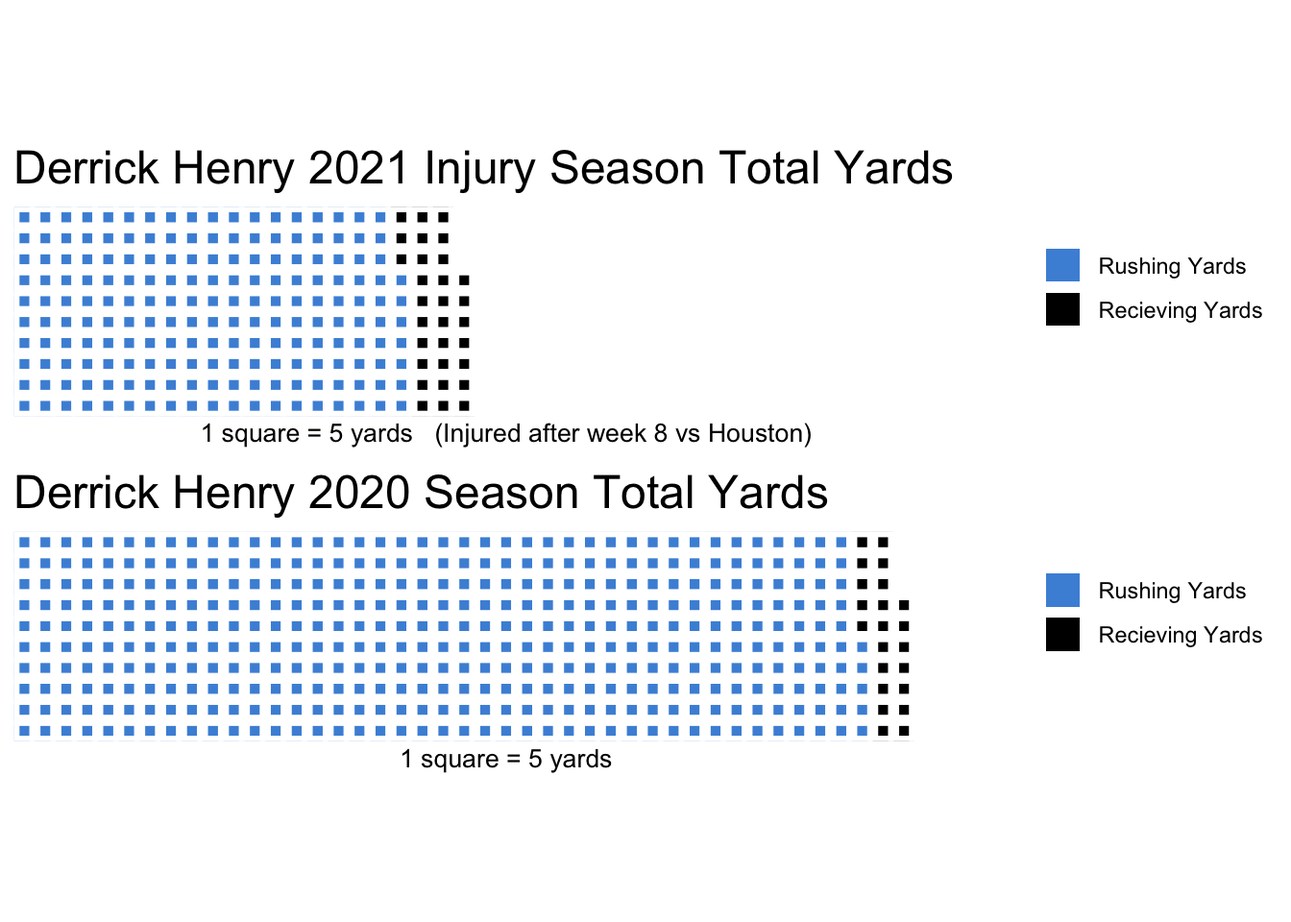
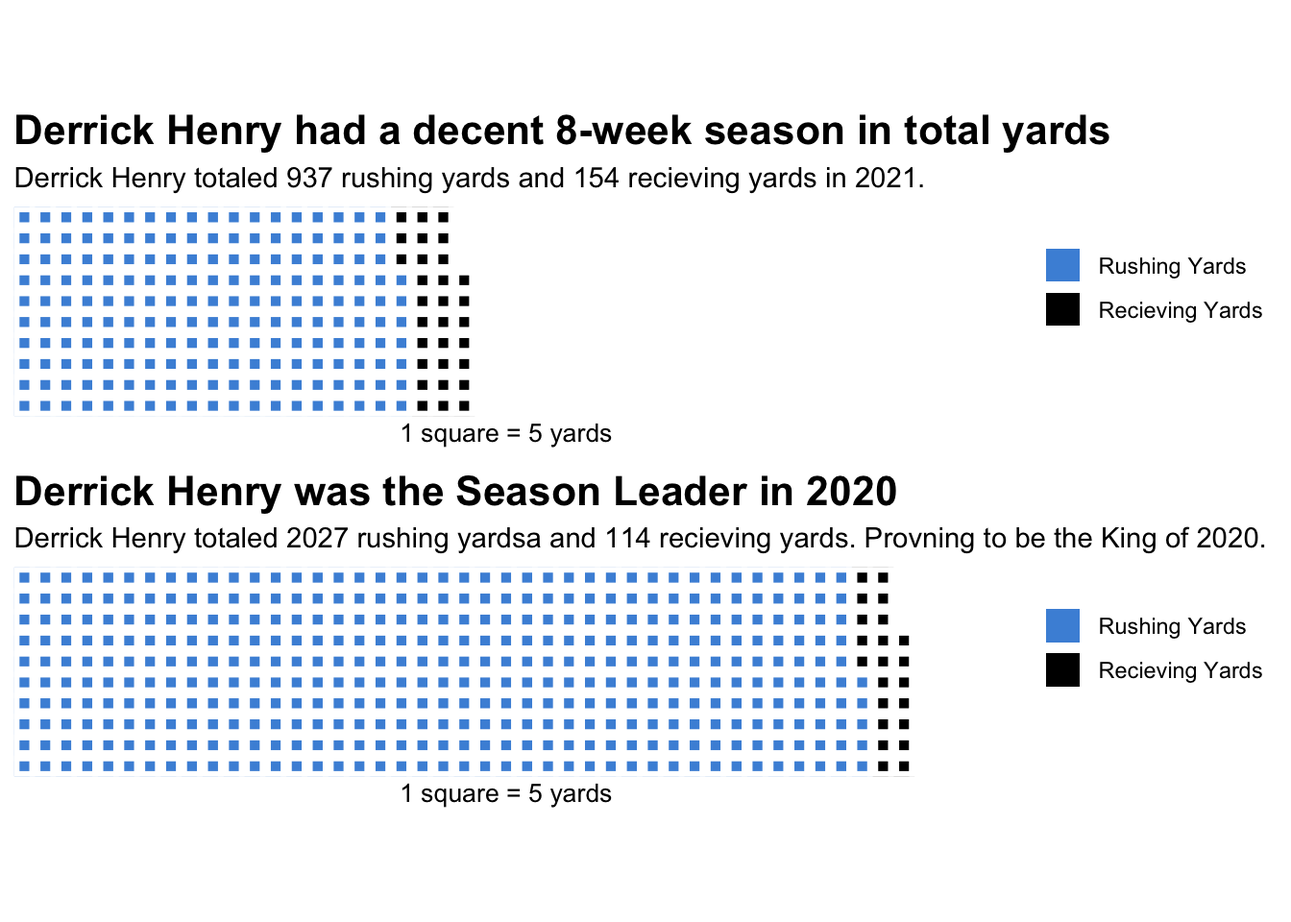
Fixes

Changed region(s): [[0.0, 0.4375, 0.9688, 0.875], [0.0, 0.125, 0.875, 0.2188], [0.8125, 0.625, 0.9688, 0.75]]

diff --git a/posts/Derrick-Henry-the-never-to-be-2021-MVP/index.html b/posts/Derrick-Henry-the-never-to-be-2021-MVP/index.html
@@ -436,7 +436,7 @@ code span.wa { color: #60a0b0; font-weight: bold; font-style: italic; } /* Warni
 </div>
 </div>
 <p>Looking at the other running backs in the NFL and the incredible season Johnathon Taylor had, Derrick Henry was in a really good group of athletes to compete against. And in the NFL anything can happen, as seen with Henry’s unfortunate injury in week 8 versus Houston. Henry could have gained more than expected, he could have gained less. We just will never know what could have been.</p>
-<p>A common thing to help compare potential MVP material is to look to the past. Most MVPs are typically, especially in recent years, Quarterbacks. There hasn’t been a non-quarterback MVP since 2009 when Adrian Peterson had a breakout season as the Minnesota Vikings star running back. There have only been FOUR running back MVPS since 2000, so let’s look at how Derrick Henry compares in yards gained versus the former MVP running backs of the 21st century including his 2020 season.</p>
+<p>A common thing to help compare potential MVP material is to look to the past. Most MVPs are typically, especially in recent years, Quarterbacks. There hasn’t been a non-quarterback MVP since 2009 when Adrian Peterson had a breakout season as the Minnesota Vikings star running back. There have only been FOUR running back MVPS since 2000, so let’s look at how Derrick Henry matched up in is 2020 NFL lead rusher season and his unfortunate shortend 2021 season..</p>
 <div class="cell">
 <details>
 <summary>Code</summary>
@@ -511,52 +511,105 @@ code span.wa { color: #60a0b0; font-weight: bold; font-style: italic; } /* Warni
 <span id="cb2-69"><a href="#cb2-69" aria-hidden="true" tabindex="-1"></a><span class="fu">iron</span>(</span>
 <span id="cb2-70"><a href="#cb2-70" aria-hidden="true" tabindex="-1"></a>   <span class="fu">waffle</span>(DH21<span class="sc">/</span><span class="dv">5</span>,</span>
 <span id="cb2-71"><a href="#cb2-71" aria-hidden="true" tabindex="-1"></a>    <span class="at">rows=</span> <span class="dv">10</span>,</span>
-<span id="cb2-72"><a href="#cb2-72" aria-hidden="true" tabindex="-1"></a>    <span class="at">title=</span> <span class="st">"Derrick Henry 2021 Injury Season Total Yards"</span>,</span>
-<span id="cb2-73"><a href="#cb2-73" aria-hidden="true" tabindex="-1"></a>    <span class="at">xlab=</span><span class="st">"1 square = 5 yards   (Injured after week 8 vs Houston)"</span>,</span>
-<span id="cb2-74"><a href="#cb2-74" aria-hidden="true" tabindex="-1"></a>    <span class="at">colors =</span> <span class="fu">c</span>(<span class="st">"#4B92DB"</span>,<span class="st">"Black"</span>,<span class="st">"white"</span>)),</span>
-<span id="cb2-75"><a href="#cb2-75" aria-hidden="true" tabindex="-1"></a>  <span class="fu">waffle</span>(DH20<span class="sc">/</span><span class="dv">5</span>,</span>
-<span id="cb2-76"><a href="#cb2-76" aria-hidden="true" tabindex="-1"></a>    <span class="at">rows=</span> <span class="dv">10</span>,</span>
-<span id="cb2-77"><a href="#cb2-77" aria-hidden="true" tabindex="-1"></a>    <span class="at">title=</span> <span class="st">"Derrick Henry 2020 Season Total Yards"</span>,</span>
-<span id="cb2-78"><a href="#cb2-78" aria-hidden="true" tabindex="-1"></a>    <span class="at">xlab=</span><span class="st">"1 square = 5 yards"</span>,</span>
-<span id="cb2-79"><a href="#cb2-79" aria-hidden="true" tabindex="-1"></a>   <span class="at">colors =</span> <span class="fu">c</span>(<span class="st">"#4B92DB"</span>,<span class="st">"Black"</span>,<span class="st">"white"</span>)))</span></code><button title="Copy to Clipboard" class="code-copy-button"><i class="bi"></i></button></pre></div>
+<span id="cb2-72"><a href="#cb2-72" aria-hidden="true" tabindex="-1"></a>    <span class="at">colors =</span> <span class="fu">c</span>(<span class="st">"#4B92DB"</span>,<span class="st">"Black"</span>,<span class="st">"white"</span>))<span class="sc">+</span></span>
+<span id="cb2-73"><a href="#cb2-73" aria-hidden="true" tabindex="-1"></a>    <span class="fu">labs</span>(</span>
+<span id="cb2-74"><a href="#cb2-74" aria-hidden="true" tabindex="-1"></a>    <span class="at">x=</span> <span class="st">"1 square = 5 yards"</span>,</span>
+<span id="cb2-75"><a href="#cb2-75" aria-hidden="true" tabindex="-1"></a>    <span class="at">title =</span> <span class="st">"Derrick Henry had a decent 8-week season in total yards"</span>,</span>
+<span id="cb2-76"><a href="#cb2-76" aria-hidden="true" tabindex="-1"></a>    <span class="at">subtitle =</span> <span class="st">"Derrick Henry totaled 937 rushing yards and 154 recieving yards in 2021."</span>) <span class="sc">+</span></span>
+<span id="cb2-77"><a href="#cb2-77" aria-hidden="true" tabindex="-1"></a>  <span class="fu">theme</span>(</span>
+<span id="cb2-78"><a href="#cb2-78" aria-hidden="true" tabindex="-1"></a>    <span class="at">plot.title =</span> <span class="fu">element_text</span>(<span class="at">size =</span> <span class="dv">16</span>, <span class="at">face =</span> <span class="st">"bold"</span>),</span>
+<span id="cb2-79"><a href="#cb2-79" aria-hidden="true" tabindex="-1"></a>    <span class="at">axis.title =</span> <span class="fu">element_text</span>(<span class="at">size =</span> <span class="dv">10</span>),</span>
+<span id="cb2-80"><a href="#cb2-80" aria-hidden="true" tabindex="-1"></a>    <span class="at">axis.title.y =</span> <span class="fu">element_blank</span>()</span>
+<span id="cb2-81"><a href="#cb2-81" aria-hidden="true" tabindex="-1"></a>  ),</span>
+<span id="cb2-82"><a href="#cb2-82" aria-hidden="true" tabindex="-1"></a>  <span class="fu">waffle</span>(DH20<span class="sc">/</span><span class="dv">5</span>,</span>
+<span id="cb2-83"><a href="#cb2-83" aria-hidden="true" tabindex="-1"></a>    <span class="at">rows=</span> <span class="dv">10</span>,</span>
+<span id="cb2-84"><a href="#cb2-84" aria-hidden="true" tabindex="-1"></a>   <span class="at">colors =</span> <span class="fu">c</span>(<span class="st">"#4B92DB"</span>,<span class="st">"Black"</span>,<span class="st">"white"</span>))<span class="sc">+</span></span>
+<span id="cb2-85"><a href="#cb2-85" aria-hidden="true" tabindex="-1"></a>    <span class="fu">labs</span>(</span>
+<span id="cb2-86"><a href="#cb2-86" aria-hidden="true" tabindex="-1"></a>    <span class="at">x=</span> <span class="st">"1 square = 5 yards"</span>,</span>
+<span id="cb2-87"><a href="#cb2-87" aria-hidden="true" tabindex="-1"></a>    <span class="at">title =</span> <span class="st">"Derrick Henry was the Season Leader in 2020"</span>,</span>
+<span id="cb2-88"><a href="#cb2-88" aria-hidden="true" tabindex="-1"></a>    <span class="at">subtitle =</span> <span class="st">"Derrick Henry totaled 2027 rushing yardsa and 114 recieving yards. Provning to be the King of 2020."</span>) <span class="sc">+</span></span>
+<span id="cb2-89"><a href="#cb2-89" aria-hidden="true" tabindex="-1"></a>  <span class="fu">theme</span>(</span>
+<span id="cb2-90"><a href="#cb2-90" aria-hidden="true" tabindex="-1"></a>    <span class="at">plot.title =</span> <span class="fu">element_text</span>(<span class="at">size =</span> <span class="dv">16</span>, <span class="at">face =</span> <span class="st">"bold"</span>),</span>
+<span id="cb2-91"><a href="#cb2-91" aria-hidden="true" tabindex="-1"></a>    <span class="at">axis.title =</span> <span class="fu">element_text</span>(<span class="at">size =</span> <span class="dv">10</span>),</span>
+<span id="cb2-92"><a href="#cb2-92" aria-hidden="true" tabindex="-1"></a>    <span class="at">axis.title.y =</span> <span class="fu">element_blank</span>()</span>
+<span id="cb2-93"><a href="#cb2-93" aria-hidden="true" tabindex="-1"></a>  ))</span></code><button title="Copy to Clipboard" class="code-copy-button"><i class="bi"></i></button></pre></div>
 </details>
 <div class="cell-output-display">
 <p><img src="index_files/figure-html/unnamed-chunk-2-1.png" class="img-fluid" width="672"></p>
 </div>
+</div>
+<p>But how does Henry compare to two of the best running backs in the 2000s and their total rushing yards? Well Adrian Peterson, the 2009 MVP, and LaDainian Tomlinson, the 2005 MVP have two of the highest total yards gained by running backs in the 2000s. They won the MVP for a reason and their yards gained show a big reason why.</p>
+<div class="cell">
 <details>
 <summary>Code</summary>
 <div class="sourceCode cell-code" id="cb3"><pre class="sourceCode r code-with-copy"><code class="sourceCode r"><span id="cb3-1"><a href="#cb3-1" aria-hidden="true" tabindex="-1"></a><span class="fu">iron</span>(</span>
 <span id="cb3-2"><a href="#cb3-2" aria-hidden="true" tabindex="-1"></a>  <span class="fu">waffle</span>(AP<span class="sc">/</span><span class="dv">5</span>,</span>
 <span id="cb3-3"><a href="#cb3-3" aria-hidden="true" tabindex="-1"></a>  <span class="at">rows=</span> <span class="dv">10</span>,</span>
-<span id="cb3-4"><a href="#cb3-4" aria-hidden="true" tabindex="-1"></a>  <span class="at">title=</span> <span class="st">"Adrian Peterson 2012 MVP Season Total Yards"</span>,</span>
-<span id="cb3-5"><a href="#cb3-5" aria-hidden="true" tabindex="-1"></a>  <span class="at">xlab=</span><span class="st">"1 square = 5 yards"</span>,</span>
-<span id="cb3-6"><a href="#cb3-6" aria-hidden="true" tabindex="-1"></a>  <span class="at">colors =</span> <span class="fu">c</span>(<span class="st">"#4F2683"</span>,<span class="st">"#FFC62F"</span>, <span class="st">"white"</span>)),</span>
-<span id="cb3-7"><a href="#cb3-7" aria-hidden="true" tabindex="-1"></a>  <span class="fu">waffle</span>(LT<span class="sc">/</span><span class="dv">5</span>,</span>
-<span id="cb3-8"><a href="#cb3-8" aria-hidden="true" tabindex="-1"></a>  <span class="at">rows=</span> <span class="dv">10</span>,</span>
-<span id="cb3-9"><a href="#cb3-9" aria-hidden="true" tabindex="-1"></a>  <span class="at">title=</span> <span class="st">"LaDainian Tomlinson 2006 MVP Season Total Yards"</span>,</span>
-<span id="cb3-10"><a href="#cb3-10" aria-hidden="true" tabindex="-1"></a>  <span class="at">xlab=</span><span class="st">"1 square = 5 yards"</span>,</span>
-<span id="cb3-11"><a href="#cb3-11" aria-hidden="true" tabindex="-1"></a>  <span class="at">colors =</span> <span class="fu">c</span>(<span class="st">"#0080C6"</span>,<span class="st">"#FFC20E"</span>)))</span></code><button title="Copy to Clipboard" class="code-copy-button"><i class="bi"></i></button></pre></div>
+<span id="cb3-4"><a href="#cb3-4" aria-hidden="true" tabindex="-1"></a>  <span class="at">colors =</span> <span class="fu">c</span>(<span class="st">"#4F2683"</span>,<span class="st">"#FFC62F"</span>, <span class="st">"white"</span>))<span class="sc">+</span></span>
+<span id="cb3-5"><a href="#cb3-5" aria-hidden="true" tabindex="-1"></a>    <span class="fu">labs</span>(</span>
+<span id="cb3-6"><a href="#cb3-6" aria-hidden="true" tabindex="-1"></a>    <span class="at">x=</span> <span class="st">"1 square = 5 yards"</span>,</span>
+<span id="cb3-7"><a href="#cb3-7" aria-hidden="true" tabindex="-1"></a>    <span class="at">title =</span> <span class="st">"The Vikings MVP racked up  major yards in the 2009 season"</span>,</span>
+<span id="cb3-8"><a href="#cb3-8" aria-hidden="true" tabindex="-1"></a>    <span class="at">subtitle =</span> <span class="st">"Adrian Peterson totaled 2097 rushing yards and 217 receiving yards in the last season a</span><span class="sc">\n</span><span class="st">running back won the NFL MVP."</span>) <span class="sc">+</span></span>
+<span id="cb3-9"><a href="#cb3-9" aria-hidden="true" tabindex="-1"></a>  <span class="fu">theme</span>(</span>
+<span id="cb3-10"><a href="#cb3-10" aria-hidden="true" tabindex="-1"></a>    <span class="at">plot.title =</span> <span class="fu">element_text</span>(<span class="at">size =</span> <span class="dv">16</span>, <span class="at">face =</span> <span class="st">"bold"</span>),</span>
+<span id="cb3-11"><a href="#cb3-11" aria-hidden="true" tabindex="-1"></a>    <span class="at">axis.title =</span> <span class="fu">element_text</span>(<span class="at">size =</span> <span class="dv">10</span>),</span>
+<span id="cb3-12"><a href="#cb3-12" aria-hidden="true" tabindex="-1"></a>    <span class="at">axis.title.y =</span> <span class="fu">element_blank</span>()</span>
+<span id="cb3-13"><a href="#cb3-13" aria-hidden="true" tabindex="-1"></a>  ),</span>
+<span id="cb3-14"><a href="#cb3-14" aria-hidden="true" tabindex="-1"></a>  <span class="fu">waffle</span>(LT<span class="sc">/</span><span class="dv">5</span>,</span>
+<span id="cb3-15"><a href="#cb3-15" aria-hidden="true" tabindex="-1"></a>  <span class="at">rows=</span> <span class="dv">10</span>,</span>
+<span id="cb3-16"><a href="#cb3-16" aria-hidden="true" tabindex="-1"></a>  <span class="at">title=</span> <span class="st">"LaDainian Tomlinson 2006 MVP Season Total Yards"</span>,</span>
+<span id="cb3-17"><a href="#cb3-17" aria-hidden="true" tabindex="-1"></a>  <span class="at">xlab=</span><span class="st">"1 square = 5 yards"</span>,</span>
+<span id="cb3-18"><a href="#cb3-18" aria-hidden="true" tabindex="-1"></a>  <span class="at">colors =</span> <span class="fu">c</span>(<span class="st">"#0080C6"</span>,<span class="st">"#FFC20E"</span>))<span class="sc">+</span></span>
+<span id="cb3-19"><a href="#cb3-19" aria-hidden="true" tabindex="-1"></a>    <span class="fu">labs</span>(</span>
+<span id="cb3-20"><a href="#cb3-20" aria-hidden="true" tabindex="-1"></a>    <span class="at">x=</span> <span class="st">"1 square = 5 yards"</span>,</span>
+<span id="cb3-21"><a href="#cb3-21" aria-hidden="true" tabindex="-1"></a>    <span class="at">title =</span> <span class="st">"Potentially the most dominate running back of the 2000s era,</span><span class="sc">\n</span><span class="st">lit upthe field in 2005"</span>,</span>
+<span id="cb3-22"><a href="#cb3-22" aria-hidden="true" tabindex="-1"></a>    <span class="at">subtitle =</span> <span class="st">"LaDainian Tomlinson ran 1815 yards on the ground and nrecieived 508 yards through the air</span><span class="sc">\n</span><span class="st">in the biggest reciving yards by any running back MVP in the 21st century ."</span>) <span class="sc">+</span></span>
+<span id="cb3-23"><a href="#cb3-23" aria-hidden="true" tabindex="-1"></a>  <span class="fu">theme</span>(</span>
+<span id="cb3-24"><a href="#cb3-24" aria-hidden="true" tabindex="-1"></a>    <span class="at">plot.title =</span> <span class="fu">element_text</span>(<span class="at">size =</span> <span class="dv">16</span>, <span class="at">face =</span> <span class="st">"bold"</span>),</span>
+<span id="cb3-25"><a href="#cb3-25" aria-hidden="true" tabindex="-1"></a>    <span class="at">axis.title =</span> <span class="fu">element_text</span>(<span class="at">size =</span> <span class="dv">10</span>),</span>
+<span id="cb3-26"><a href="#cb3-26" aria-hidden="true" tabindex="-1"></a>    <span class="at">axis.title.y =</span> <span class="fu">element_blank</span>()</span>
+<span id="cb3-27"><a href="#cb3-27" aria-hidden="true" tabindex="-1"></a>  ))</span></code><button title="Copy to Clipboard" class="code-copy-button"><i class="bi"></i></button></pre></div>
 </details>
 <div class="cell-output-display">
-<p><img src="index_files/figure-html/unnamed-chunk-2-2.png" class="img-fluid" width="672"></p>
+<p><img src="index_files/figure-html/unnamed-chunk-3-1.png" class="img-fluid" width="672"></p>
 </div>
+</div>
+<p>The other two running back MVPs that most casual NFL fans brush over is Seattle Seahawks running back Suan Alexander in 2005 and the Superbowl XXXIV Champions (Yes I still cry about this as a Titans fan) St.&nbsp;Louis Rams running back Marshall Faulk. What really surpises me is that Faulk had more total yards than any of the other MVPs and running backs on the list, including Eric Dickerson.</p>
+<div class="cell">
 <details>
 <summary>Code</summary>
 <div class="sourceCode cell-code" id="cb4"><pre class="sourceCode r code-with-copy"><code class="sourceCode r"><span id="cb4-1"><a href="#cb4-1" aria-hidden="true" tabindex="-1"></a><span class="fu">iron</span>(</span>
 <span id="cb4-2"><a href="#cb4-2" aria-hidden="true" tabindex="-1"></a>  <span class="fu">waffle</span>(SA<span class="sc">/</span><span class="dv">5</span>,</span>
 <span id="cb4-3"><a href="#cb4-3" aria-hidden="true" tabindex="-1"></a>         <span class="at">rows=</span><span class="dv">10</span>,</span>
-<span id="cb4-4"><a href="#cb4-4" aria-hidden="true" tabindex="-1"></a>         <span class="at">title=</span> <span class="st">"Shaun Alexander 2005 MVP Season Total Yards"</span>,</span>
-<span id="cb4-5"><a href="#cb4-5" aria-hidden="true" tabindex="-1"></a>         <span class="at">xlab=</span><span class="st">"1 square = 5 yards"</span>,</span>
-<span id="cb4-6"><a href="#cb4-6" aria-hidden="true" tabindex="-1"></a>  <span class="at">colors =</span> <span class="fu">c</span>(<span class="st">"#69BE28"</span>,<span class="st">"#002244"</span>,<span class="st">"white"</span>)),</span>
-<span id="cb4-7"><a href="#cb4-7" aria-hidden="true" tabindex="-1"></a>  <span class="fu">waffle</span>(MF<span class="sc">/</span><span class="dv">5</span>,</span>
-<span id="cb4-8"><a href="#cb4-8" aria-hidden="true" tabindex="-1"></a>         <span class="at">rows=</span><span class="dv">10</span>,</span>
-<span id="cb4-9"><a href="#cb4-9" aria-hidden="true" tabindex="-1"></a>         <span class="at">title=</span> <span class="st">"Marshall Faulk 2000 MVP Season Total Yards"</span>,</span>
-<span id="cb4-10"><a href="#cb4-10" aria-hidden="true" tabindex="-1"></a>         <span class="at">xlab=</span><span class="st">"1 square = 5 yards"</span>,</span>
-<span id="cb4-11"><a href="#cb4-11" aria-hidden="true" tabindex="-1"></a>  <span class="at">colors =</span> <span class="fu">c</span>(<span class="st">"#866D4B"</span>,<span class="st">"#002244"</span>,<span class="st">"white"</span>)))</span></code><button title="Copy to Clipboard" class="code-copy-button"><i class="bi"></i></button></pre></div>
+<span id="cb4-4"><a href="#cb4-4" aria-hidden="true" tabindex="-1"></a>         <span class="at">colors =</span> <span class="fu">c</span>(<span class="st">"#69BE28"</span>,<span class="st">"#002244"</span>,<span class="st">"white"</span>))<span class="sc">+</span></span>
+<span id="cb4-5"><a href="#cb4-5" aria-hidden="true" tabindex="-1"></a>    <span class="fu">labs</span>(</span>
+<span id="cb4-6"><a href="#cb4-6" aria-hidden="true" tabindex="-1"></a>    <span class="at">x=</span> <span class="st">"1 square = 5 yards"</span>,</span>
+<span id="cb4-7"><a href="#cb4-7" aria-hidden="true" tabindex="-1"></a>    <span class="at">title =</span> <span class="st">"The Seahawks running back seems to be the least productive</span><span class="sc">\n</span><span class="st">of the MVPs but still made a big impact for Seattle"</span>,</span>
+<span id="cb4-8"><a href="#cb4-8" aria-hidden="true" tabindex="-1"></a>    <span class="at">subtitle =</span> <span class="st">"Suan Alexander rushed for 1880 yards and received 78 yards from Matt Hassleback."</span>) <span class="sc">+</span></span>
+<span id="cb4-9"><a href="#cb4-9" aria-hidden="true" tabindex="-1"></a>  <span class="fu">theme</span>(</span>
+<span id="cb4-10"><a href="#cb4-10" aria-hidden="true" tabindex="-1"></a>    <span class="at">plot.title =</span> <span class="fu">element_text</span>(<span class="at">size =</span> <span class="dv">16</span>, <span class="at">face =</span> <span class="st">"bold"</span>),</span>
+<span id="cb4-11"><a href="#cb4-11" aria-hidden="true" tabindex="-1"></a>    <span class="at">axis.title =</span> <span class="fu">element_text</span>(<span class="at">size =</span> <span class="dv">10</span>),</span>
+<span id="cb4-12"><a href="#cb4-12" aria-hidden="true" tabindex="-1"></a>    <span class="at">axis.title.y =</span> <span class="fu">element_blank</span>()</span>
+<span id="cb4-13"><a href="#cb4-13" aria-hidden="true" tabindex="-1"></a>  ),</span>
+<span id="cb4-14"><a href="#cb4-14" aria-hidden="true" tabindex="-1"></a>  <span class="fu">waffle</span>(MF<span class="sc">/</span><span class="dv">5</span>,</span>
+<span id="cb4-15"><a href="#cb4-15" aria-hidden="true" tabindex="-1"></a>         <span class="at">rows=</span><span class="dv">10</span>,</span>
+<span id="cb4-16"><a href="#cb4-16" aria-hidden="true" tabindex="-1"></a>  <span class="at">colors =</span> <span class="fu">c</span>(<span class="st">"#866D4B"</span>,<span class="st">"#002244"</span>,<span class="st">"white"</span>))<span class="sc">+</span></span>
+<span id="cb4-17"><a href="#cb4-17" aria-hidden="true" tabindex="-1"></a>  <span class="fu">labs</span>(</span>
+<span id="cb4-18"><a href="#cb4-18" aria-hidden="true" tabindex="-1"></a>    <span class="at">x=</span> <span class="st">"1 square = 5 yards"</span>,</span>
+<span id="cb4-19"><a href="#cb4-19" aria-hidden="true" tabindex="-1"></a>    <span class="at">title =</span> <span class="st">"The St. Louis Rams running back helped bring the team</span><span class="sc">\n</span><span class="st">to one of the best superbowls in the modern era"</span>,</span>
+<span id="cb4-20"><a href="#cb4-20" aria-hidden="true" tabindex="-1"></a>    <span class="at">subtitle =</span> <span class="st">"Marshall Faulk, while he did not play in the Superbowl, still tacked up 1359 rushing yards</span><span class="sc">\n</span><span class="st">and the most receiving yards from any running back on this list with 830 yards."</span>) <span class="sc">+</span></span>
+<span id="cb4-21"><a href="#cb4-21" aria-hidden="true" tabindex="-1"></a>  <span class="fu">theme</span>(</span>
+<span id="cb4-22"><a href="#cb4-22" aria-hidden="true" tabindex="-1"></a>    <span class="at">plot.title =</span> <span class="fu">element_text</span>(<span class="at">size =</span> <span class="dv">16</span>, <span class="at">face =</span> <span class="st">"bold"</span>),</span>
+<span id="cb4-23"><a href="#cb4-23" aria-hidden="true" tabindex="-1"></a>    <span class="at">axis.title =</span> <span class="fu">element_text</span>(<span class="at">size =</span> <span class="dv">10</span>),</span>
+<span id="cb4-24"><a href="#cb4-24" aria-hidden="true" tabindex="-1"></a>    <span class="at">axis.title.y =</span> <span class="fu">element_blank</span>()</span>
+<span id="cb4-25"><a href="#cb4-25" aria-hidden="true" tabindex="-1"></a>  ))</span></code><button title="Copy to Clipboard" class="code-copy-button"><i class="bi"></i></button></pre></div>
 </details>
 <div class="cell-output-display">
-<p><img src="index_files/figure-html/unnamed-chunk-2-3.png" class="img-fluid" width="672"></p>
+<p><img src="index_files/figure-html/unnamed-chunk-4-1.png" class="img-fluid" width="672"></p>
 </div>
+</div>
+<p>How did the NFL single season rushing champion do in the most dominant rushing season in the league to date? Eric Dickerson, Los Angeles Rams star running back, a.k.a. Mr.&nbsp;Benny, set a an abusrd record for the 80s that still holds today. Dickerson left fans watching goggle eyed as he ran his way into history during his rookie seaon.</p>
+<div class="cell">
 <details>
 <summary>Code</summary>
 <div class="sourceCode cell-code" id="cb5"><pre class="sourceCode r code-with-copy"><code class="sourceCode r"><span id="cb5-1"><a href="#cb5-1" aria-hidden="true" tabindex="-1"></a><span class="fu">waffle</span>(</span>
@@ -564,10 +617,19 @@ code span.wa { color: #60a0b0; font-weight: bold; font-style: italic; } /* Warni
 <span id="cb5-3"><a href="#cb5-3" aria-hidden="true" tabindex="-1"></a>  <span class="at">rows=</span><span class="dv">10</span>,</span>
 <span id="cb5-4"><a href="#cb5-4" aria-hidden="true" tabindex="-1"></a>  <span class="at">title=</span><span class="st">"Eric Dickerson 1984 NFL Single Season Rushing Record</span><span class="sc">\n</span><span class="st">Total Yards"</span>,</span>
 <span id="cb5-5"><a href="#cb5-5" aria-hidden="true" tabindex="-1"></a>  <span class="at">xlab=</span><span class="st">"1 square = 5 yards (Did not win MVP)"</span>,</span>
-<span id="cb5-6"><a href="#cb5-6" aria-hidden="true" tabindex="-1"></a>  <span class="at">colors =</span> <span class="fu">c</span>(<span class="st">"#002D72"</span>, <span class="st">"#FFCD00"</span>, <span class="st">"White"</span>))</span></code><button title="Copy to Clipboard" class="code-copy-button"><i class="bi"></i></button></pre></div>
+<span id="cb5-6"><a href="#cb5-6" aria-hidden="true" tabindex="-1"></a>  <span class="at">colors =</span> <span class="fu">c</span>(<span class="st">"#002D72"</span>, <span class="st">"#FFCD00"</span>, <span class="st">"White"</span>))<span class="sc">+</span></span>
+<span id="cb5-7"><a href="#cb5-7" aria-hidden="true" tabindex="-1"></a>  <span class="fu">labs</span>(</span>
+<span id="cb5-8"><a href="#cb5-8" aria-hidden="true" tabindex="-1"></a>    <span class="at">x=</span> <span class="st">"1 square = 5 yards"</span>,</span>
+<span id="cb5-9"><a href="#cb5-9" aria-hidden="true" tabindex="-1"></a>    <span class="at">title =</span> <span class="st">"Mr. Fourth Quarter, crushed any and all running backs</span><span class="sc">\n</span><span class="st">in the 1984 season. "</span>,</span>
+<span id="cb5-10"><a href="#cb5-10" aria-hidden="true" tabindex="-1"></a>    <span class="at">subtitle =</span> <span class="st">"Eric Dickerson racked a whoping 2105 rushing yards in just 15 games! The rushing legend</span><span class="sc">\n</span><span class="st">totaled his outstanding year with a total 139 receiving yards."</span>) <span class="sc">+</span></span>
+<span id="cb5-11"><a href="#cb5-11" aria-hidden="true" tabindex="-1"></a>  <span class="fu">theme</span>(</span>
+<span id="cb5-12"><a href="#cb5-12" aria-hidden="true" tabindex="-1"></a>    <span class="at">plot.title =</span> <span class="fu">element_text</span>(<span class="at">size =</span> <span class="dv">16</span>, <span class="at">face =</span> <span class="st">"bold"</span>),</span>
+<span id="cb5-13"><a href="#cb5-13" aria-hidden="true" tabindex="-1"></a>    <span class="at">axis.title =</span> <span class="fu">element_text</span>(<span class="at">size =</span> <span class="dv">10</span>),</span>
+<span id="cb5-14"><a href="#cb5-14" aria-hidden="true" tabindex="-1"></a>    <span class="at">axis.title.y =</span> <span class="fu">element_blank</span>()</span>
+<span id="cb5-15"><a href="#cb5-15" aria-hidden="true" tabindex="-1"></a>  )</span></code><button title="Copy to Clipboard" class="code-copy-button"><i class="bi"></i></button></pre></div>
 </details>
 <div class="cell-output-display">
-<p><img src="index_files/figure-html/unnamed-chunk-2-4.png" class="img-fluid" width="672"></p>
+<p><img src="index_files/figure-html/unnamed-chunk-5-1.png" class="img-fluid" width="672"></p>
 </div>
 </div>
 <p>With 937 yards through week 8, The King was having the best running back season everyone has seen in a long time. The best in over a decade in my opinion. Still through the 2022 season, Henry has SIX career games with 200+ rush yards and 2+ rushing touchdowns since 1950! Four of which are against the Houston Texans alone. He has twice as many as Hall of Famers like Barry Sanders and Jim Brown, who are not included in this post, and LaDainian Tomlinson who all have three of such games. El Tractorcito was looking to stiff arm and run over anyone who stood in his way…</p>
@@ -636,7 +698,7 @@ code span.wa { color: #60a0b0; font-weight: bold; font-style: italic; } /* Warni
 <span id="cb6-58"><a href="#cb6-58" aria-hidden="true" tabindex="-1"></a>    <span class="at">plot.title.position =</span> <span class="st">"plot"</span>)</span></code><button title="Copy to Clipboard" class="code-copy-button"><i class="bi"></i></button></pre></div>
 </details>
 <div class="cell-output-display">
-<p><img src="index_files/figure-html/unnamed-chunk-3-1.png" class="img-fluid" width="672"></p>
+<p><img src="index_files/figure-html/unnamed-chunk-6-1.png" class="img-fluid" width="672"></p>
 </div>
 </div>
 <p>So, will we ever know if Derrick Henry was prone to have the season the numbers, fans, and experts expected him to have? We will never know. But as a Titans fan who has been let down time and time again in the playoffs, I still like to believe that The King still reigns as one of the best running backs to have played the game. He still has many, many years to prove this in the history books, so just watch out for Derrick Henry to break the record that Eric Dickerson set over 35 years ago.</p>

diff --git a/index.html b/index.html
@@ -164,7 +164,7 @@ ul.task-list li input[type="checkbox"] {
 
 <div class="quarto-listing quarto-listing-container-default" id="listing-listing">
 <div class="list quarto-listing-default">
-<div class="quarto-post image-right" data-index="0" data-categories="Titans,Derrick Henry,MVP,Rushing" data-listing-date-sort="1670133600000" data-listing-file-modified-sort="1670218518595" data-listing-reading-time-sort="11.835">
+<div class="quarto-post image-right" data-index="0" data-categories="Titans,Derrick Henry,MVP,Rushing" data-listing-date-sort="1670133600000" data-listing-file-modified-sort="1670257156506" data-listing-reading-time-sort="15.28">
 <div class="thumbnail">
 <p><a href="./posts/Derrick-Henry-the-never-to-be-2021-MVP/index.html"> <img src="./posts/Derrick-Henry-the-never-to-be-2021-MVP/Henry-King-Tractor-Pic.png" class="thumnail-image"> </a></p>
 </div>
